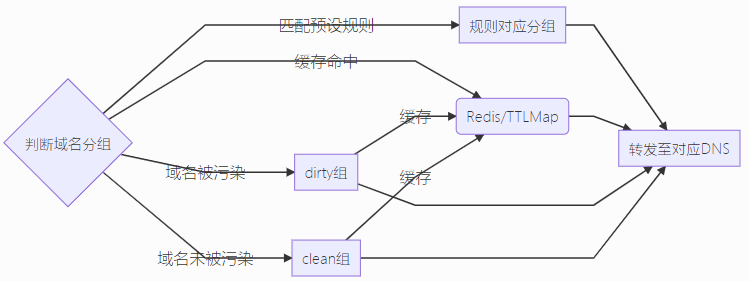
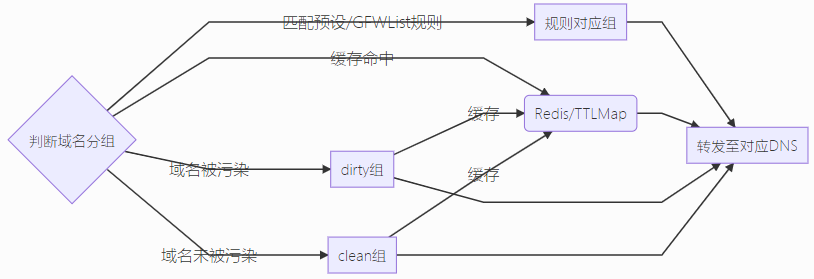
update doc

diff --git a/README.md b/README.md
@@ -1,5 +1,5 @@
 # dns-splitter
-带反污染功能的DNS分流器
+带GFWList&反污染功能的DNS分流器
 ![](arch.png)
 
 ## 编译&使用
@@ -16,6 +16,7 @@ go build -o dns-splitter *.go
 ```ini
 [main]
 listen = :53
+gfwlist = gfwlist.txt
 
 [redis]
 
@@ -31,8 +32,14 @@ suffix = google.com, twimg.com, quoracdn.net
 suffix = company.com
 ```
 
-* 配置文件默认为`dns-splitter.ini`
+* 配置文件默认为`dns-splitter.ini`。
+* `gfwlist.txt`参考`https://github.com/gfwlist/gfwlist/raw/master/gfwlist.txt`。
 * 反污染功能无法关闭。如不想使用该功能可将`servers`中的`clean`字段和`dirty`字段设为相同值。
 * 当配置了`redis`Section里配置了`host`时，本程序将使用`Redis`作为分组判定结果缓存，反之则使用内置的`TTLMap`作为缓存。
-* 污染判定机制尚不完善，目前已知无法正确判定是否被污染的域名如`rule:dirty`所示。
+* 污染判定机制尚不完善，目前已知无法正确判定是否被污染的域名如`rule:dirty`所示。推荐开启`GFWList`实现更好的准确度。
 * `dirty`组DNS里的地址推荐设置为自建的`dnscrypt-proxy`，即搭配DOH/DOT使用。
+
+## TODO
+
+* 支持HOSTS
+* 支持自动添加IPSET
